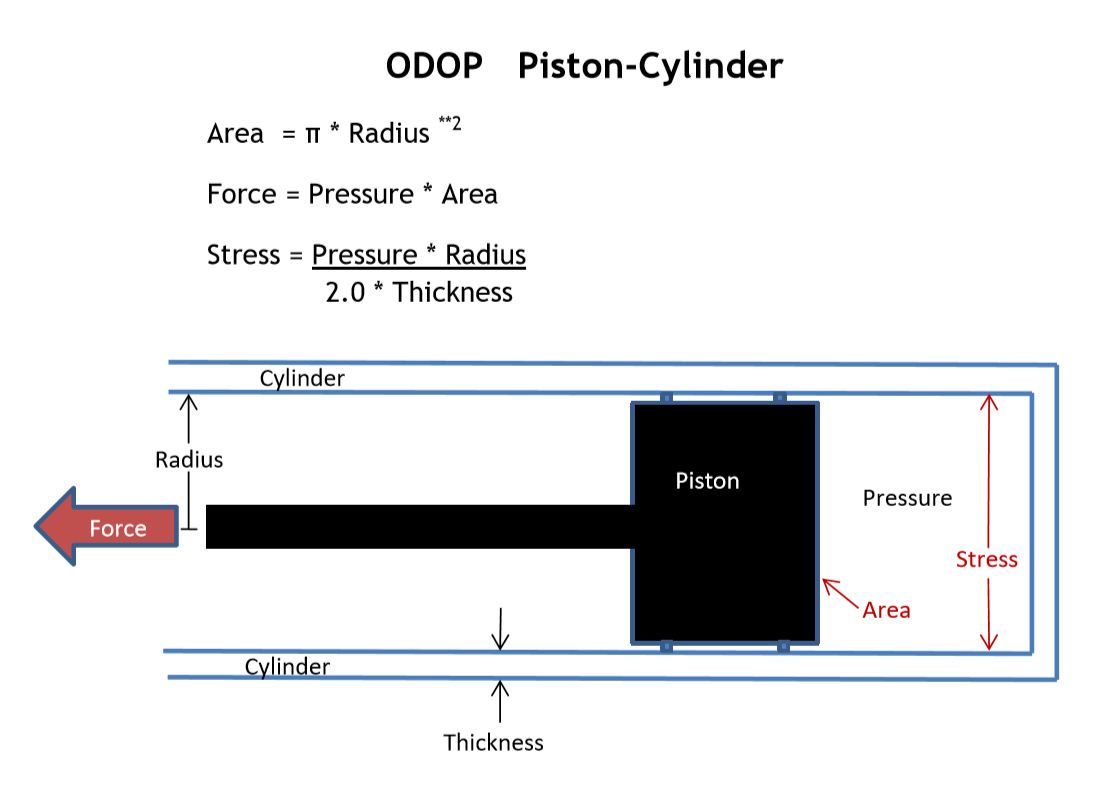
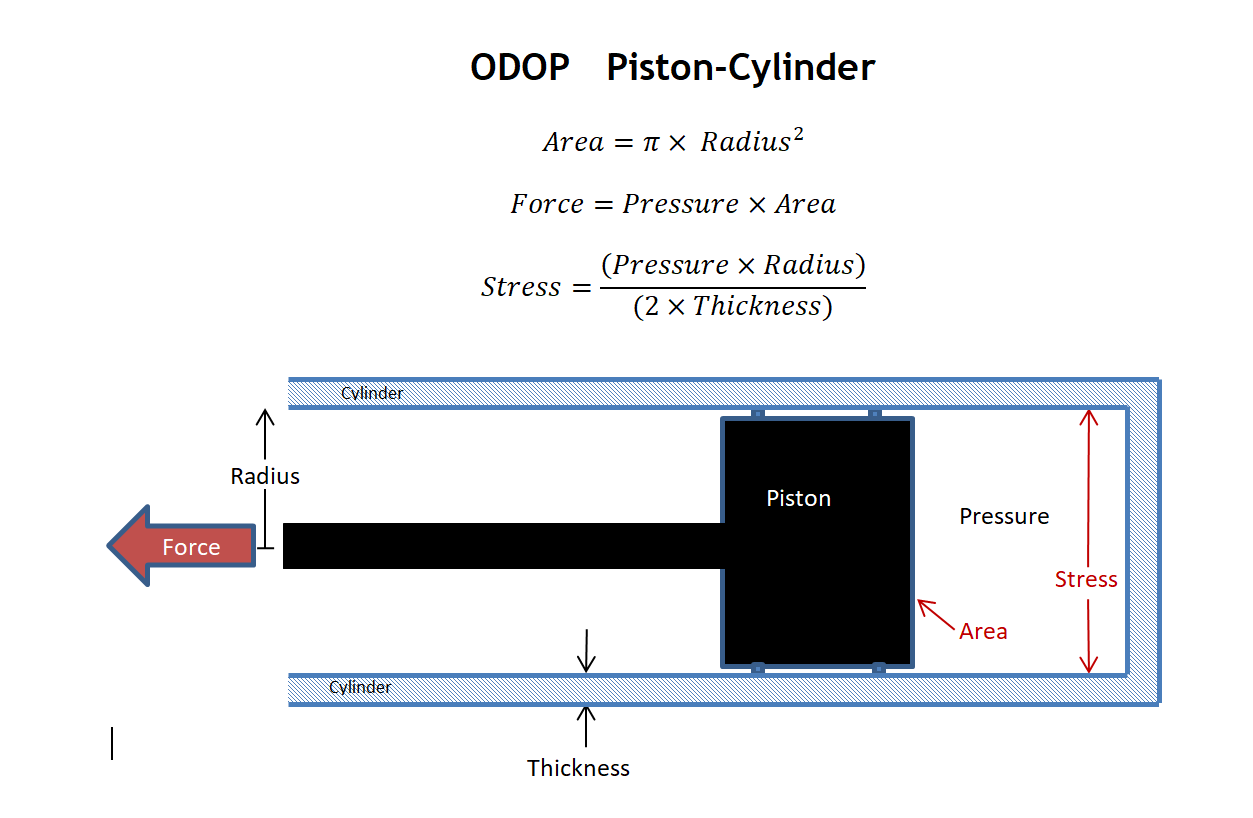
197 Coordinate Help and Tutorial content
Incorporate icons as in README.md
Improved PCyl Diagram

diff --git a/docs/About/Intro.md b/docs/About/Intro.md
@@ -61,8 +61,20 @@ See: [Help Index](../Help/index)
 &nbsp;
 
 **AVAILABLE DESIGN TYPES**   
-   
+
 Three [Design Types](../Help/DesignTypes) are currently available.
+   
+&nbsp; &nbsp; &nbsp; &nbsp; &nbsp; <img height="32" src="../../client/public/designtypes/Spring/favicon.ico"> 
+<b>[Helical coil compression spring design](../Help/DesignTypes/c_spring)</b> - a full-featured app    
+<br />
+&nbsp; &nbsp; &nbsp; &nbsp; &nbsp; <img height="32" src="../../client/public/designtypes/Solid/favicon.ico"> 
+<b>[Rectangular Solid](../Help/DesignTypes/r_solid)</b> - a familiar to everyone demonstration case   
+<br />
+&nbsp; &nbsp; &nbsp; &nbsp; &nbsp; <img height="32" src="../../client/public/designtypes/Piston-Cylinder/favicon.ico"> 
+<b>[Piston-Cylinder design](../Help/DesignTypes/pcyl)</b> - A simple demonstration case   
+
+&nbsp;
+
 The [Rectangular Solid](../Help/DesignTypes/r_solid) design type is intended as an 
 easy to understand demonstration problem.
 
